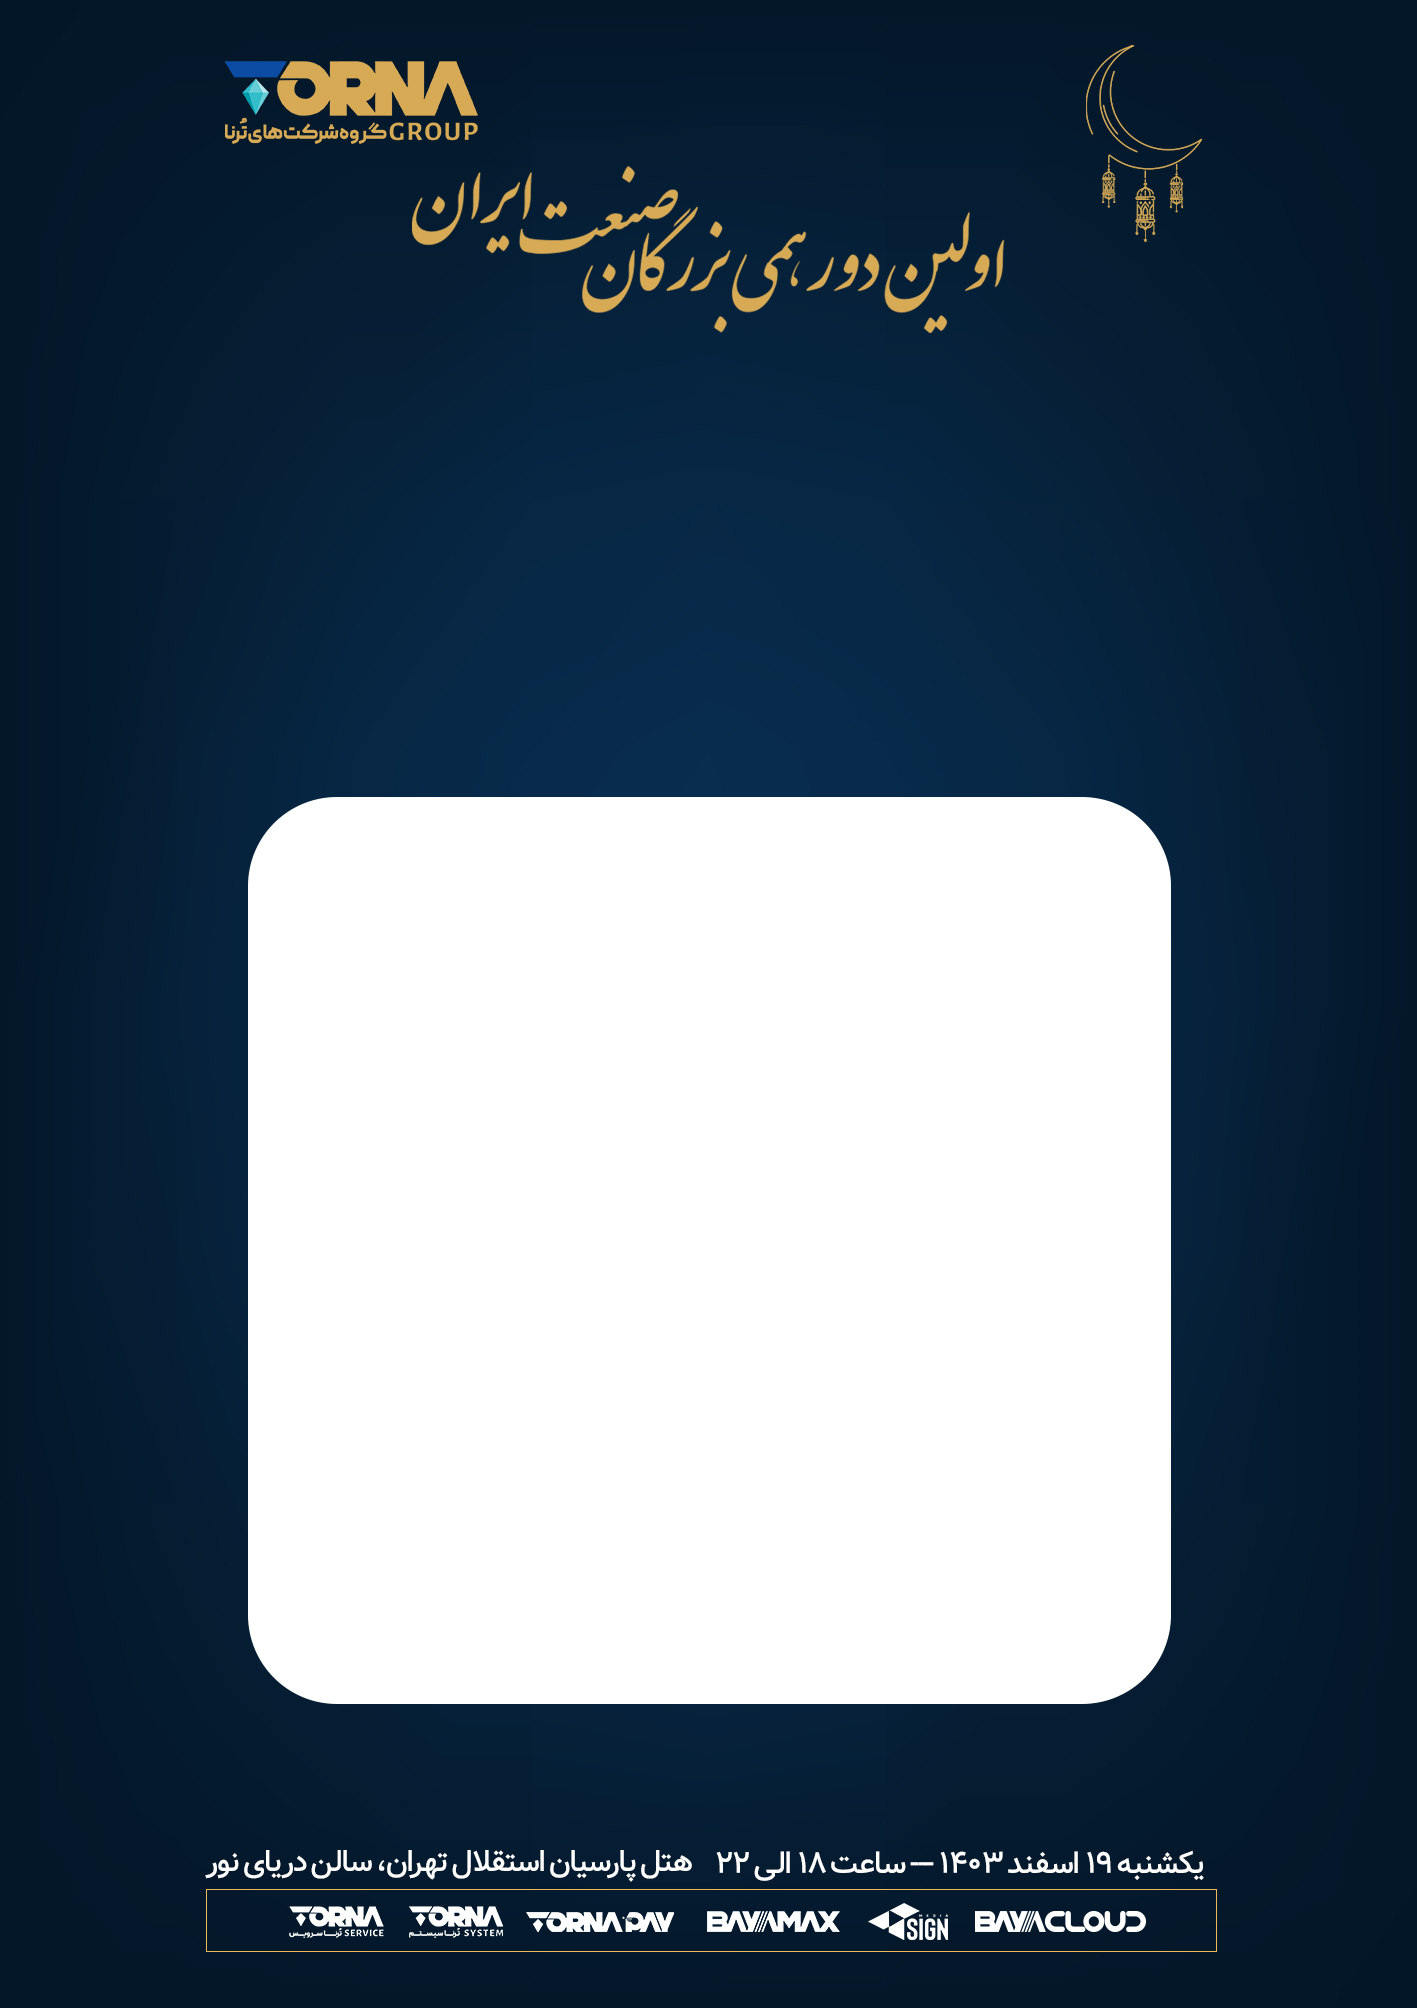
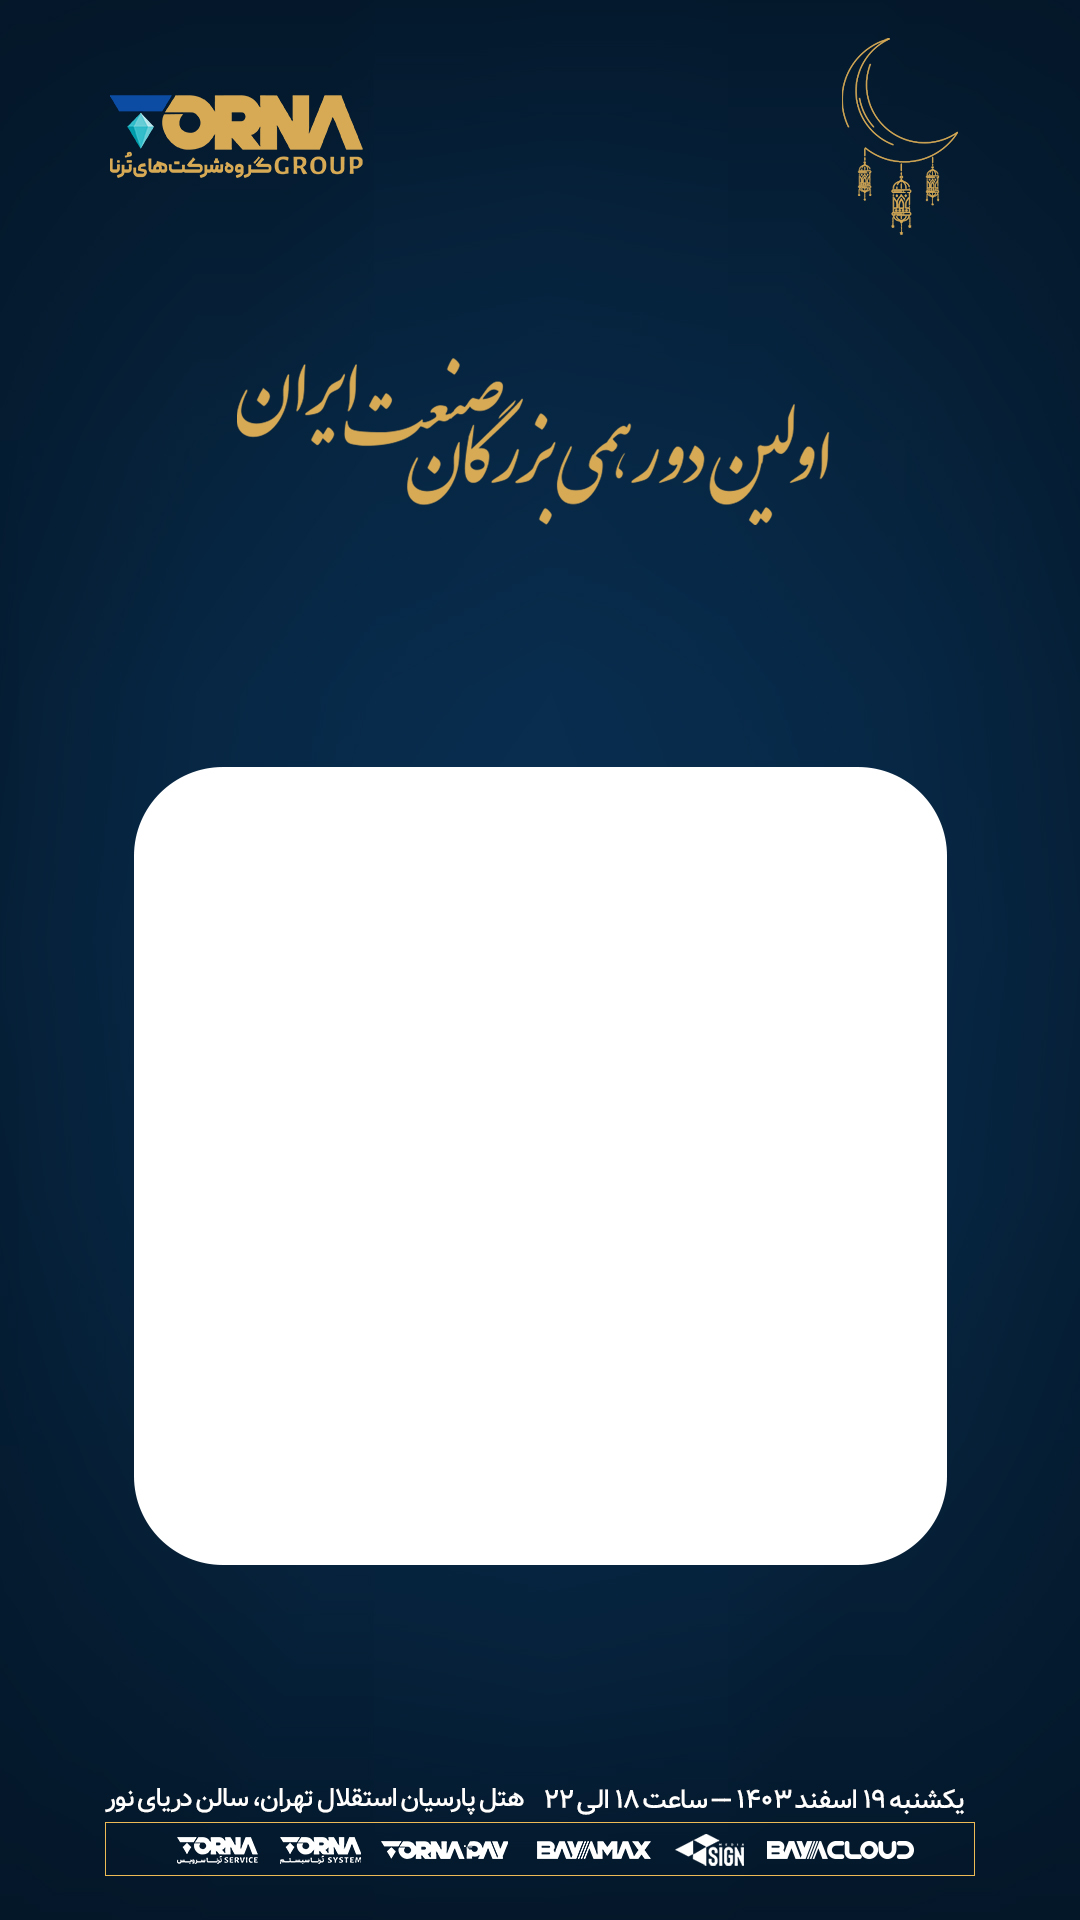
ref: pdf_generator background and styling
Changed PDF files backgrounds and updated styling for different sections

diff --git a/pdf_generator.py b/pdf_generator.py
@@ -275,16 +275,16 @@ def main():
     pdf_dir = "PDF_files"
 
     qr_config = QRCodeConfig(
-        version=3,
+        version=8,
         error_correction=qrcode.constants.ERROR_CORRECT_L,
-        box_size=10,
+        box_size=12,
         border=4,
         fill_color="black",
         back_color="white",
     )
 
     pdf_config = PDFConfig(
-        page_size=(300, 400),
+        page_size=(225, 400),
         background_image="background.jpg",
         title_font="Vazir-Bold",
         title_font_size=20,
@@ -293,9 +293,9 @@ def main():
         number_font_size=14,
         number_color=(0, 0, 0),  # Black
         qr_size=150,
-        title_y_offset=25,
-        qr_y_offset=68,
-        number_y_offset=75,
+        title_y_offset=40,
+        qr_y_offset=63,
+        number_y_offset=70,
     )
 
     # Process records
